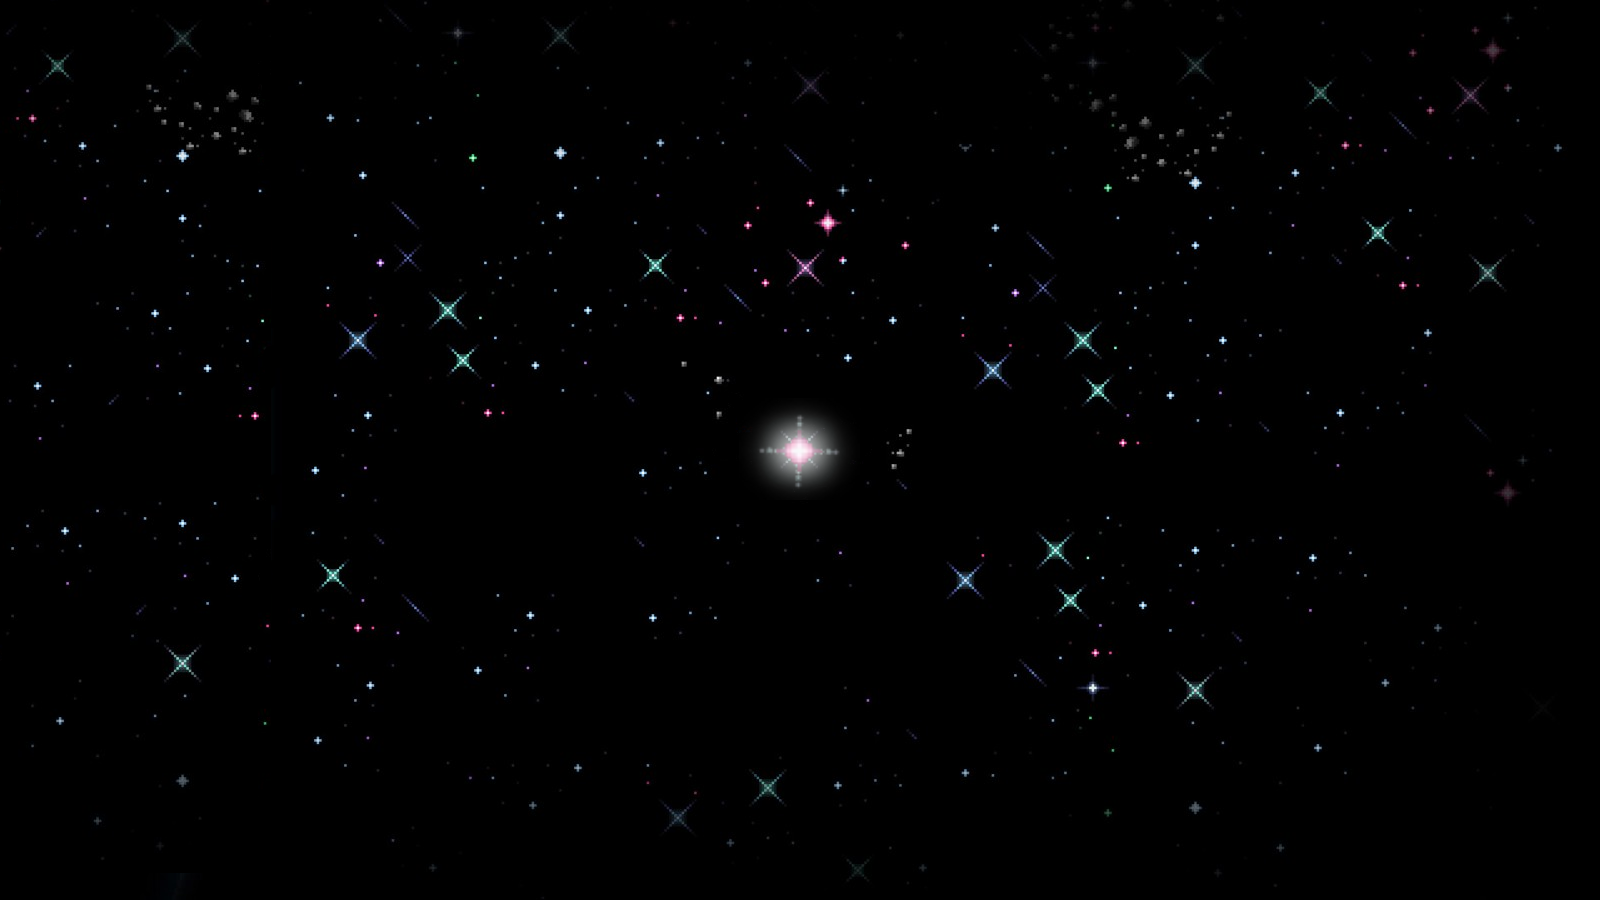
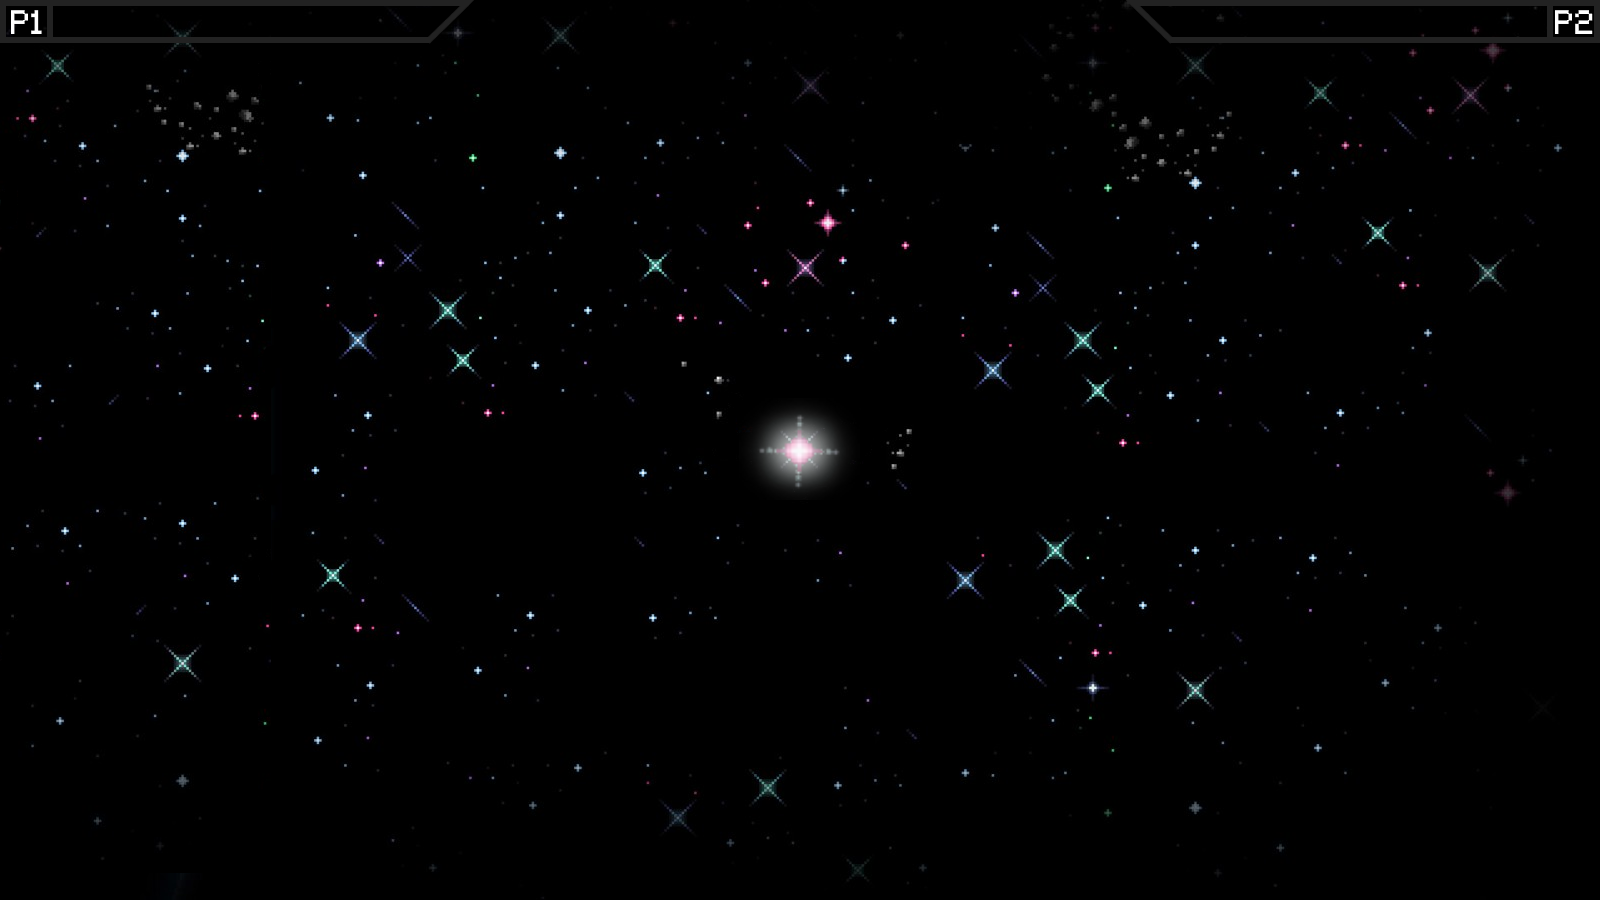
Added InterfaceManager class, added healthbars and point updates

Changed region(s): [[0.6875, 0.0, 1.0, 0.0622], [0.0, 0.0, 0.3125, 0.0622]]

diff --git a/Spacewar/GameElements.cs b/Spacewar/GameElements.cs
@@ -9,14 +9,15 @@ namespace Spacewar
     static class GameElements
     {
         static Texture2D menuSprite;
+        static Texture2D background;
         static Vector2 menuPos;
         static Player player;
         static PlayerManager playerManager;
-        static Interface interFace;
-        static Healthbar healthbar;
+        static InterfaceText interfaceText;
+        static Healthbar healthBar;
+        static InterfaceManager interfaceManager;
         static Powerup powerup;
         static Game game;
-        static Texture2D background;
 
         static Random rnd = new Random();
 
@@ -42,9 +43,11 @@ namespace Spacewar
             player = new Player(content.Load<Texture2D>("player1"), new Vector2(500, 250), new Vector2(0, 0), new Point(100, 100), width, height);
             playerManager = new PlayerManager(content.Load<Texture2D>("player1"), content.Load<Texture2D>("player2"), size, size, width, height);
             powerup = new Powerup(content.Load<Texture2D>("ball_1"), new Vector2(rnd.Next(1, 1500), rnd.Next(1, 800)), Vector2.Zero, new Point(50, 50), height);
-            interFace = new Interface(content.Load<SpriteFont>("Test"), 0, 0);
-            healthbar = new Healthbar(content.Load<Texture2D>("p1healthbar"), content.Load<Texture2D>("p2healthbar"), 100, 100);
+            interfaceText = new InterfaceText(content.Load<SpriteFont>("Test"), 0, 0);
             background = content.Load<Texture2D>("background");
+            healthBar = new Healthbar(content.Load<Texture2D>("p1healthbar"), new Rectangle(53, 6, 100, 31), 100);
+            interfaceManager = new InterfaceManager(content.Load<Texture2D>("p1healthbar"), content.Load<Texture2D>("p2healthbar"), new Rectangle(53, 6, 100, 31), new Rectangle(1141, 6, 100, 31), 100, 100,
+                content.Load<SpriteFont>("Test"), 0, 0, 0, 0);
         }
 
         public static State MenuUpdate()
@@ -82,14 +85,37 @@ namespace Spacewar
 
             foreach (var player in playerManager.players)
             {
-
                 player.Update();
 
-                if (player.HitCircular(powerup.Radius, powerup.Position))
+                //if (player.HitCircular(powerup.Radius, powerup.Position))
+                //{
+                //    game.Exit();
+                //}
+
+                if (playerManager.players[0].HitCircular(powerup.Radius, powerup.Position))
                 {
-                    healthbar.actualHealth -= 1;
+                    interfaceManager.healthBars[0].TakeDamage();
+                }
+
+                if (playerManager.players[1].HitCircular(powerup.Radius, powerup.Position))
+                {
+                    interfaceManager.healthBars[1].TakeDamage();
                 }
             }
+
+            if (interfaceManager.healthBars[0].health <=0)
+            {
+                interfaceManager.healthBars[0].health = 100;
+                playerManager.players[0].Position = playerManager.RandomPos();
+                interfaceManager.interfaceTexts[0].points -= 1;
+            } else if (interfaceManager.healthBars[1].health <=0) {
+                interfaceManager.healthBars[1].health = 100;
+                playerManager.players[1].Position = playerManager.RandomPos();
+                interfaceManager.interfaceTexts[1].points -= 1;
+            }
+            
+            interfaceManager.healthBars[0].healthRectangle = new Rectangle(53, 6, Convert.ToInt32((interfaceManager.healthBars[0].health / healthBar.maxHealth) * healthBar.fullWidth), 31);
+            interfaceManager.healthBars[1].healthRectangle = new Rectangle(1141, 6, Convert.ToInt32((interfaceManager.healthBars[1].health / healthBar.maxHealth) * healthBar.fullWidth), 31);
 
             return State.Run;
         }
@@ -102,20 +128,18 @@ namespace Spacewar
             {
                 player.Draw(spriteBatch);
             }
+
+            interfaceManager.healthBars[0].Draw(spriteBatch);
+            interfaceManager.healthBars[1].Draw(spriteBatch);
+
+            interfaceManager.interfaceTexts[0].Draw(Convert.ToString(interfaceManager.interfaceTexts[0].points), spriteBatch, 675, 50);
+            interfaceManager.interfaceTexts[1].Draw(Convert.ToString(interfaceManager.interfaceTexts[1].points), spriteBatch, 900, 50);
+
             powerup.Draw(spriteBatch);
 
-            interFace.Draw("Health", spriteBatch, 725, 10);
-            interFace.Draw("Points", spriteBatch, 730, 50);
-            interFace.Draw("Kills", spriteBatch, 742, 90);
-
-            //interFace.Draw(Convert.ToString(interFace.health), spriteBatch, 635, 10);
-            //interFace.Draw(Convert.ToString(interFace.health), spriteBatch, 900, 10);
-
-            interFace.Draw(Convert.ToString(interFace.points), spriteBatch, 675, 50);
-            interFace.Draw(Convert.ToString(interFace.points), spriteBatch, 900, 50);
-
-            interFace.Draw(Convert.ToString(interFace.kills), spriteBatch, 675, 90);
-            interFace.Draw(Convert.ToString(interFace.kills), spriteBatch, 900, 90);
+            interfaceText.Draw("Health", spriteBatch, 725, 10);
+            interfaceText.Draw("Points", spriteBatch, 730, 50);
+            interfaceText.Draw("Kills", spriteBatch, 742, 90);
         }
     }
 }

diff --git a/Spacewar/Healthbar.cs b/Spacewar/Healthbar.cs
@@ -10,34 +10,28 @@ namespace Spacewar
 {
     class Healthbar
     {
-        public int actualHealth;
-        public int visibleHealth;
+        private Texture2D healthTexture;
+        public Rectangle healthRectangle;
+        public float health;
 
         public int fullWidth = 406;
+        public float maxHealth = 100;
 
-        public Healthbar(Texture2D healthBarP1, Texture2D healthBarP2, int actualHealth, int visibleHealth)
+        public Healthbar(Texture2D healthTexture, Rectangle healthRectangle, float health)
         {
-            this.actualHealth = actualHealth;
-            this.visibleHealth = visibleHealth;
+            this.healthTexture = healthTexture;
+            this.healthRectangle = healthRectangle;
+            this.health = health;
         }
 
-        public void ResetHealth(int health)
+        public void TakeDamage()
         {
-            actualHealth = visibleHealth = health;
+            health -= 1;
         }
 
-        public void Update()
+        public void Draw(SpriteBatch spriteBatch)
         {
-            if (actualHealth < visibleHealth)
-            {
-                visibleHealth -= 1;
-            }
-            else if (actualHealth != visibleHealth)
-            {
-                visibleHealth = actualHealth;
-            }
-
-             = (healthbar.actualHealth / 100) * fullWidth;
+            spriteBatch.Draw(healthTexture, healthRectangle, Color.White);
         }
     }
 }

diff --git a/Spacewar/InterfaceManager.cs b/Spacewar/InterfaceManager.cs
@@ -1,0 +1,28 @@
+using System;
+using System.Collections.Generic;
+using System.Linq;
+using System.Text;
+using System.Threading.Tasks;
+using Microsoft.Xna.Framework;
+using Microsoft.Xna.Framework.Graphics;
+
+namespace Spacewar
+{
+    class InterfaceManager
+    {
+        public Healthbar[] healthBars;
+        public InterfaceText[] interfaceTexts;
+
+        public InterfaceManager(Texture2D p1HealthTexture, Texture2D p2HealthTexture, Rectangle p1HealthRectangle, Rectangle p2HealthRectangle, float p1Health, float p2Health, 
+            SpriteFont font, int p1Points, int p1Kills, int p2Points, int p2Kills)
+        {
+            healthBars = new Healthbar[2];
+            healthBars[0] = new Healthbar(p1HealthTexture, p1HealthRectangle, p1Health);
+            healthBars[1] = new Healthbar(p2HealthTexture, p2HealthRectangle, p2Health);
+
+            interfaceTexts = new InterfaceText[2];
+            interfaceTexts[0] = new InterfaceText(font, p1Points, p1Kills);
+            interfaceTexts[1] = new InterfaceText(font, p2Points, p2Kills);
+        }
+    }
+}

diff --git a/Spacewar/InterfaceText.cs b/Spacewar/InterfaceText.cs
@@ -1,7 +1,6 @@
 using System;
 using System.Collections.Generic;
 using System.Linq;
-using System.Drawing;
 using System.Text;
 using System.Threading.Tasks;
 using Microsoft.Xna.Framework;
@@ -9,13 +8,13 @@ using Microsoft.Xna.Framework.Graphics;
 
 namespace Spacewar
 {
-    class Interface
+    class InterfaceText
     {
         public SpriteFont font;
         public int points;
         public int kills;
 
-        public Interface(SpriteFont font, int points, int kills)
+        public InterfaceText(SpriteFont font, int points, int kills)
         {
             this.font = font;
             this.points = points;
